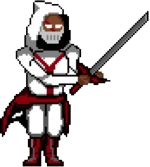
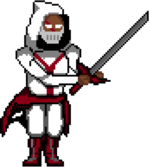
Imagem de pulo

diff --git a/src/Players/Personagens.java b/src/Players/Personagens.java
@@ -12,7 +12,7 @@ public class Personagens implements ActionListener {
 
     private int velocidade = 0;
     private int gravidade = 5;
-    private int pulo = 50;
+    private int pulo = 80;
     private int dx, dy;
     private Image imagem;
     private Timer timer;
@@ -28,6 +28,8 @@ public class Personagens implements ActionListener {
     }
 
     private boolean isAtaque = false;
+    private boolean isPulo = false;
+
 
     public void setX(int x) {
         this.x = x;
@@ -67,6 +69,15 @@ public class Personagens implements ActionListener {
         }
 
         if (isAtaque == false){
+            load("assets\\personagem.png");
+        }
+
+        if(isPulo == true){
+            pulo();
+            isPulo = false;
+        }
+
+        if (isPulo == false){
             load("assets\\personagem.png");
         }
     }
@@ -126,8 +137,10 @@ public class Personagens implements ActionListener {
     }
 
     public void pulo(){
-        System.out.println("pulo");
         colidiu = false;
+        isPulo = true;
+        ImageIcon referencia = new ImageIcon("assets\\personagemPulando.png");
+        imagem = referencia.getImage();
         y = y - pulo;
         velocidade = pulo;
     }
